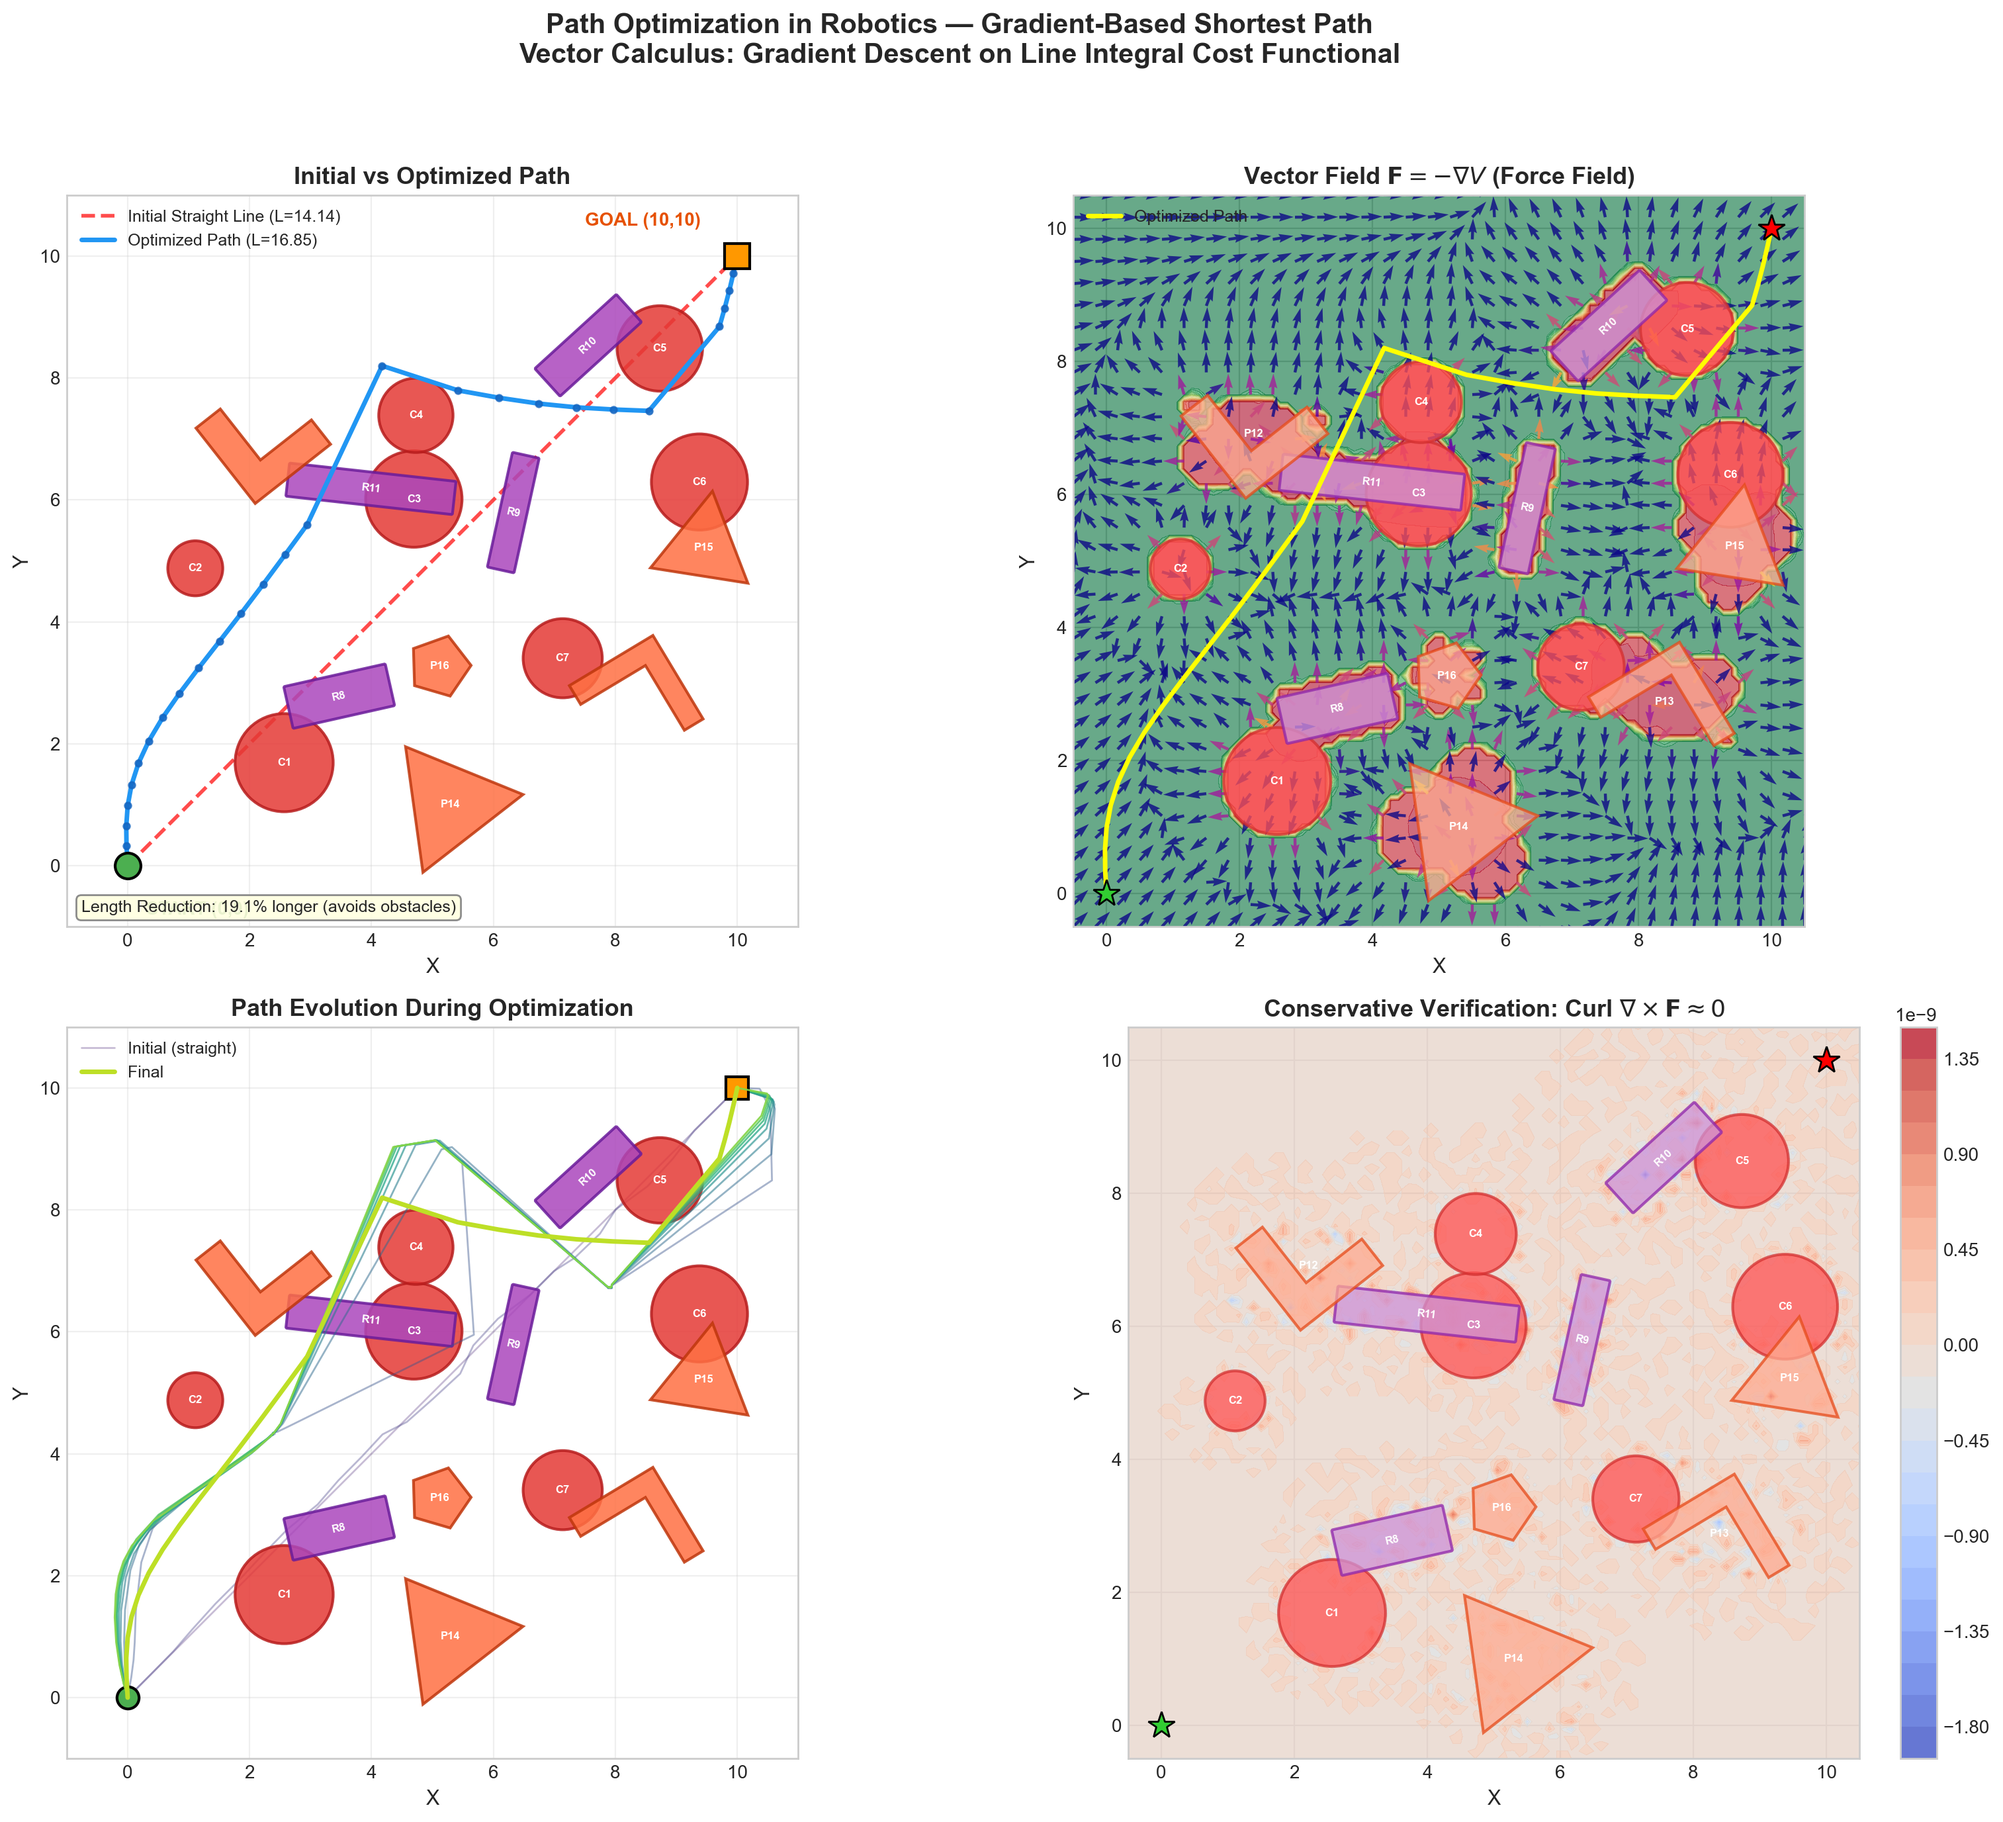
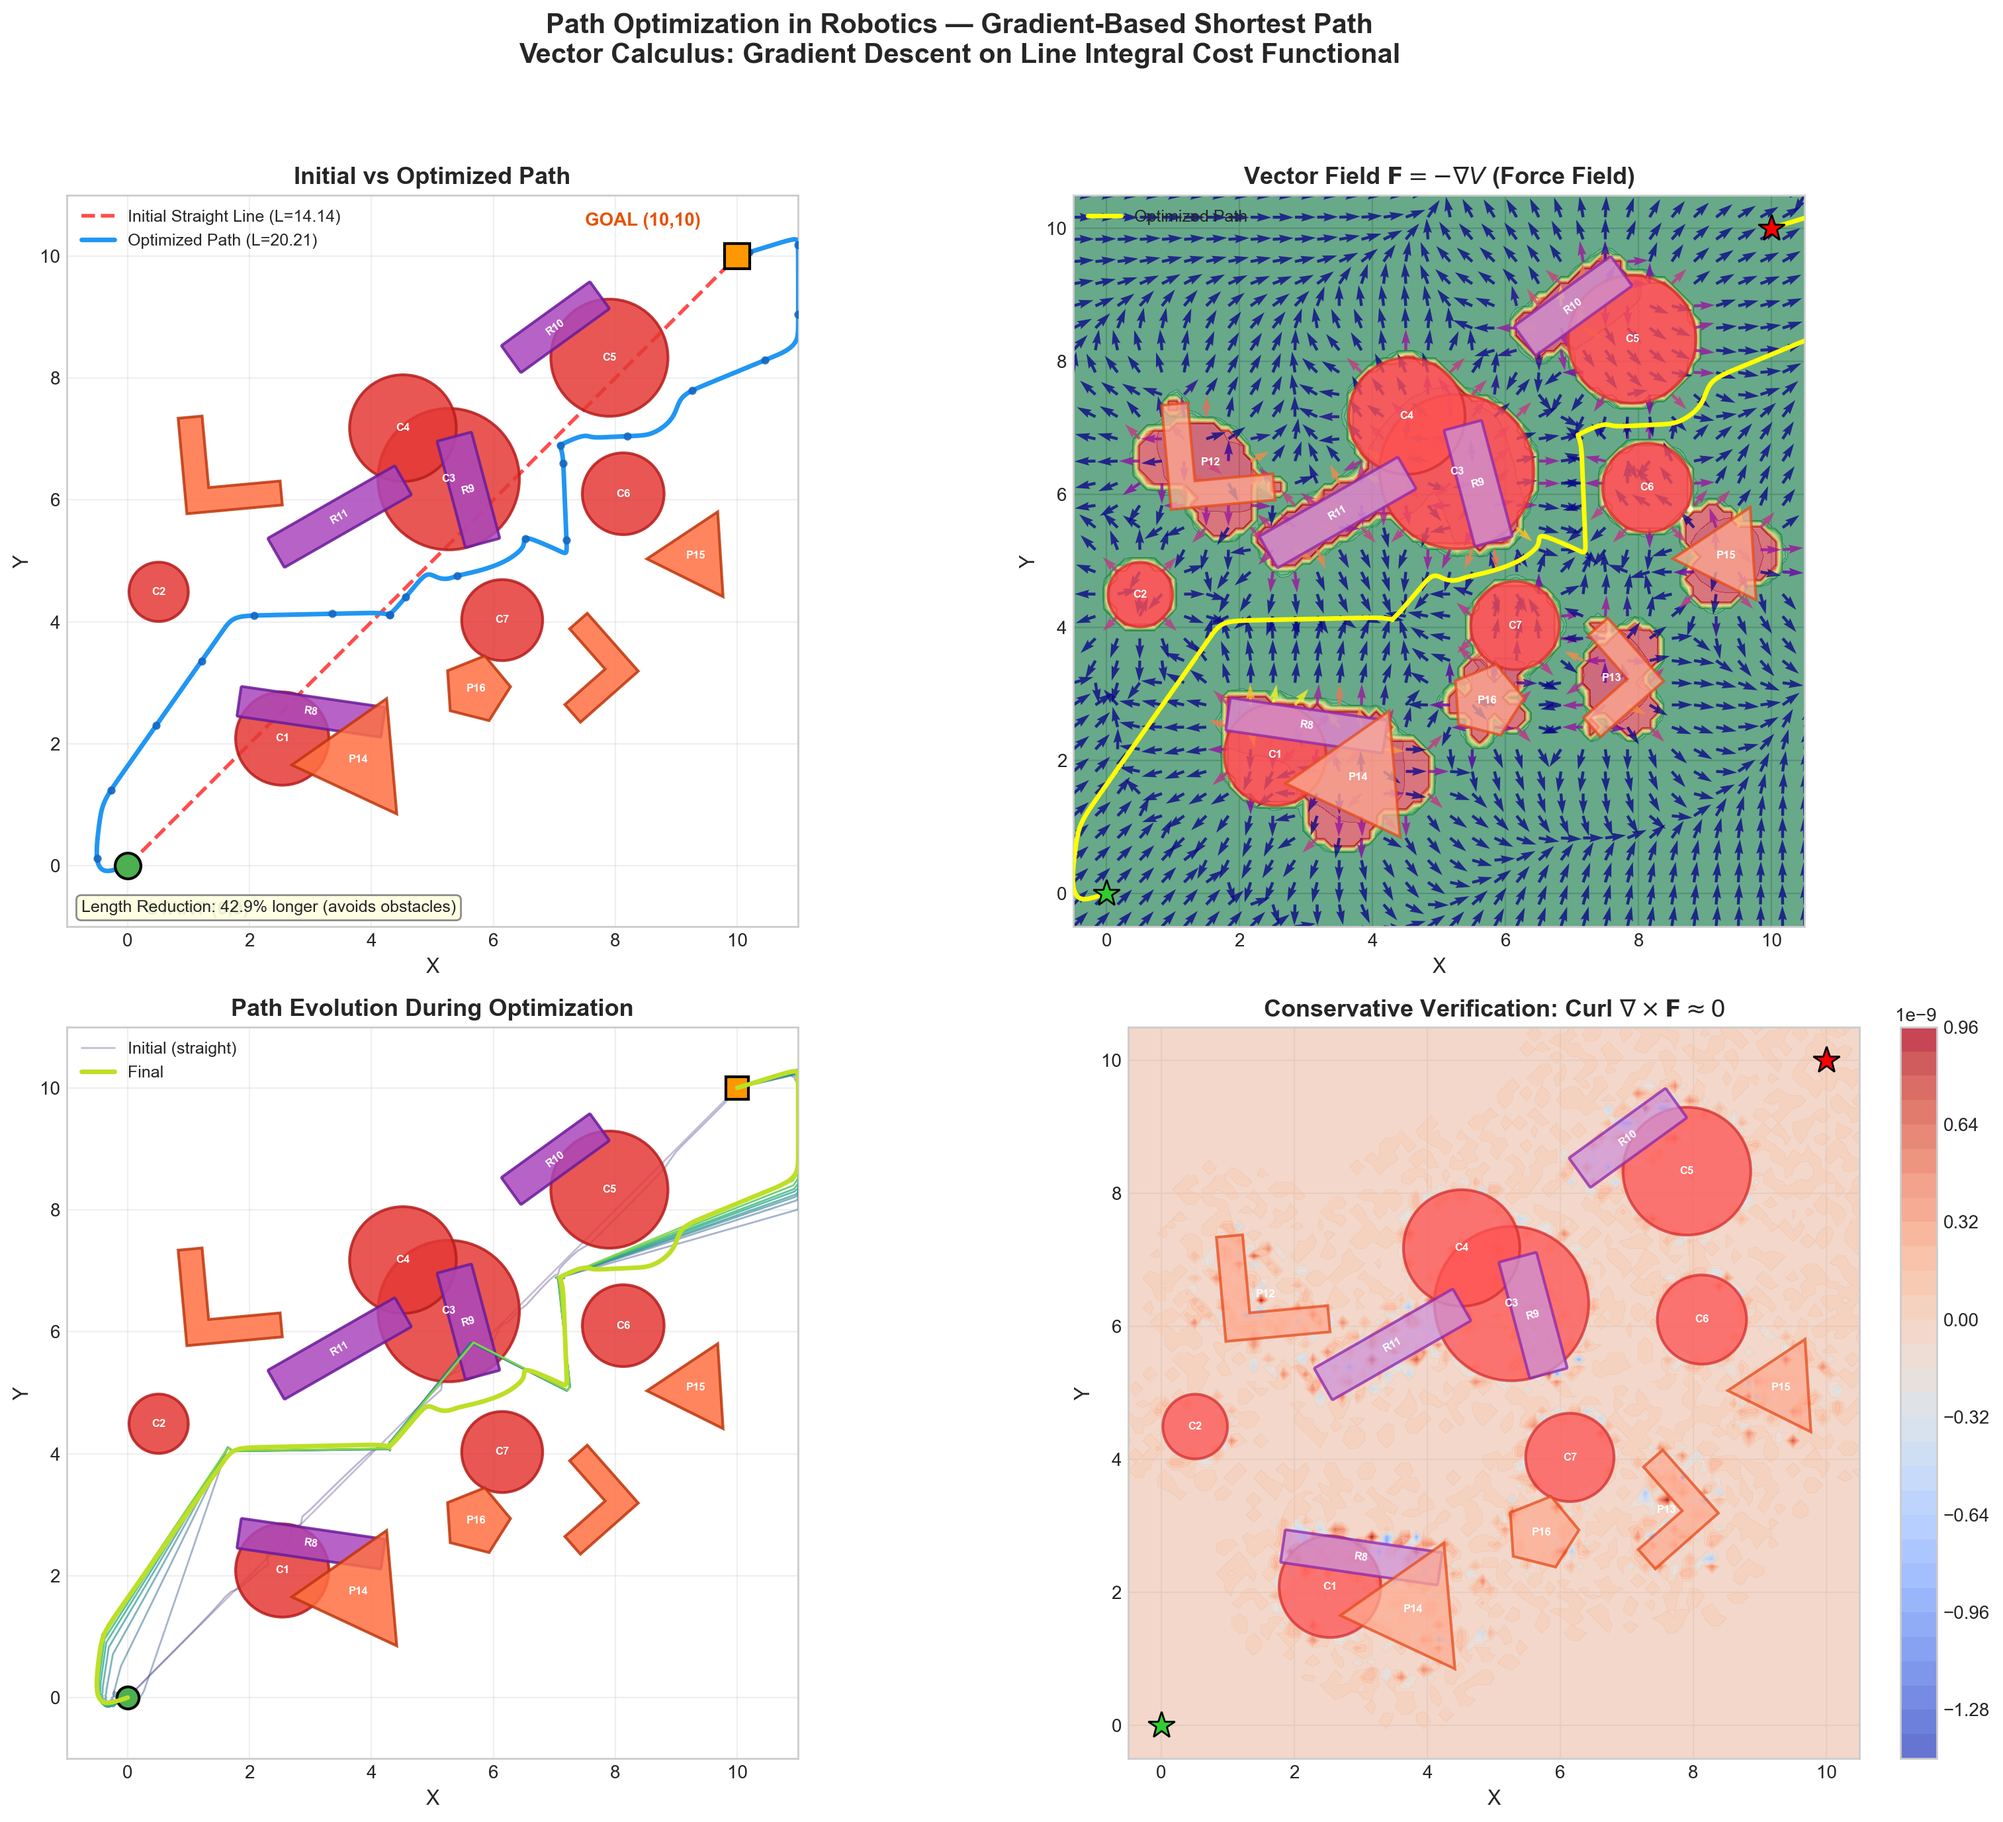
Fix collision clipping by introducing pre-repair path densification and dense segment validation

diff --git a/robot_path_optimization.py b/robot_path_optimization.py
@@ -86,7 +86,7 @@ START = np.array([0.0, 0.0])
 GOAL = np.array([10.0, 10.0])
 
 # Optimization parameters
-N_WAYPOINTS = 25          # Internal waypoints (total path = N+2 points)
+N_WAYPOINTS = 100         # Internal waypoints (total path = N+2 points)
 LEARNING_RATE = 0.02      # Gradient descent step size
 MAX_ITERATIONS = 500      # Maximum optimization iterations
 K_OBS = 20.0              # Obstacle repulsion strength
@@ -340,8 +340,18 @@ def point_collides_with_obstacle(point, obstacle, margin=0.0):
 
 
 def check_collision(path, obstacles, margin=0.0):
-    """Check if any point on the path collides with any obstacle."""
-    for point in path:
+    """Check if any segment on the path collides with any obstacle via dense interpolation."""
+    interpolated_path = []
+    for i in range(len(path) - 1):
+        p1 = path[i]
+        p2 = path[i+1]
+        dist = np.linalg.norm(p2 - p1)
+        samples = max(2, int(dist / 0.1)) # Sample every 0.1 units
+        for t in np.linspace(0, 1, samples, endpoint=False):
+            interpolated_path.append(p1 * (1 - t) + p2 * t)
+    interpolated_path.append(path[-1])
+
+    for point in interpolated_path:
         for obs in obstacles:
             if point_collides_with_obstacle(point, obs, margin):
                 return True
@@ -521,7 +531,7 @@ def compute_total_gradient_apf(path, interp_Fx_rep, interp_Fy_rep):
     
     # Scale APF forces nicely so tension can fight them correctly
     obs_force = np.column_stack((fx_rep, fy_rep))
-    grad[1:-1] -= obs_force * 0.15  # Negative because grad pushes opposite to cost gradient (force pushes inherently)
+    grad[1:-1] -= obs_force * 2.0  # Boosted APF repulsive multiplier to prevent corner shearing
 
     # ── 3. SMOOTHNESS GRADIENT (vectorized) ──
     laplacian = path[2:] - 2 * inner + path[:-2]
@@ -535,6 +545,18 @@ def compute_total_gradient_apf(path, interp_Fx_rep, interp_Fy_rep):
         grad[1:-1] *= scale
 
     return grad
+
+def densify_path(path, max_step=0.1):
+    """Subdivide segments to ensure waypoint density is extremely high for rigorous checking."""
+    new_path = [path[0]]
+    for i in range(len(path) - 1):
+        p1 = path[i]
+        p2 = path[i+1]
+        dist = np.linalg.norm(p2 - p1)
+        steps = max(1, int(np.ceil(dist / max_step)))
+        for j in range(1, steps + 1):
+            new_path.append(p1 + (p2 - p1) * (j / steps))
+    return np.array(new_path)
 
 def post_process_collision_repair(path, obstacles, max_passes=50):
     """
@@ -596,7 +618,7 @@ def optimize_path(start, goal, obstacles, seed=None):
     circle_primitives = obstacles_to_circle_primitives(obstacles)
     
     # Pre-compute the force field over a grid for interpolation
-    grid_res = 100
+    grid_res = 300
     x_grid = np.linspace(-1.5, 11.5, grid_res)
     y_grid = np.linspace(-1.5, 11.5, grid_res)
     X, Y = np.meshgrid(x_grid, y_grid)
@@ -641,7 +663,8 @@ def optimize_path(start, goal, obstacles, seed=None):
             if max(recent) - min(recent) < 1e-6:
                 break
                 
-    # Repair any residual collisions
+    # Repair any residual collisions by densifying string and pushing tight to bounds
+    path = densify_path(path, max_step=0.05)
     path = post_process_collision_repair(path, obstacles)
     path_snapshots.append(path.copy())
     
